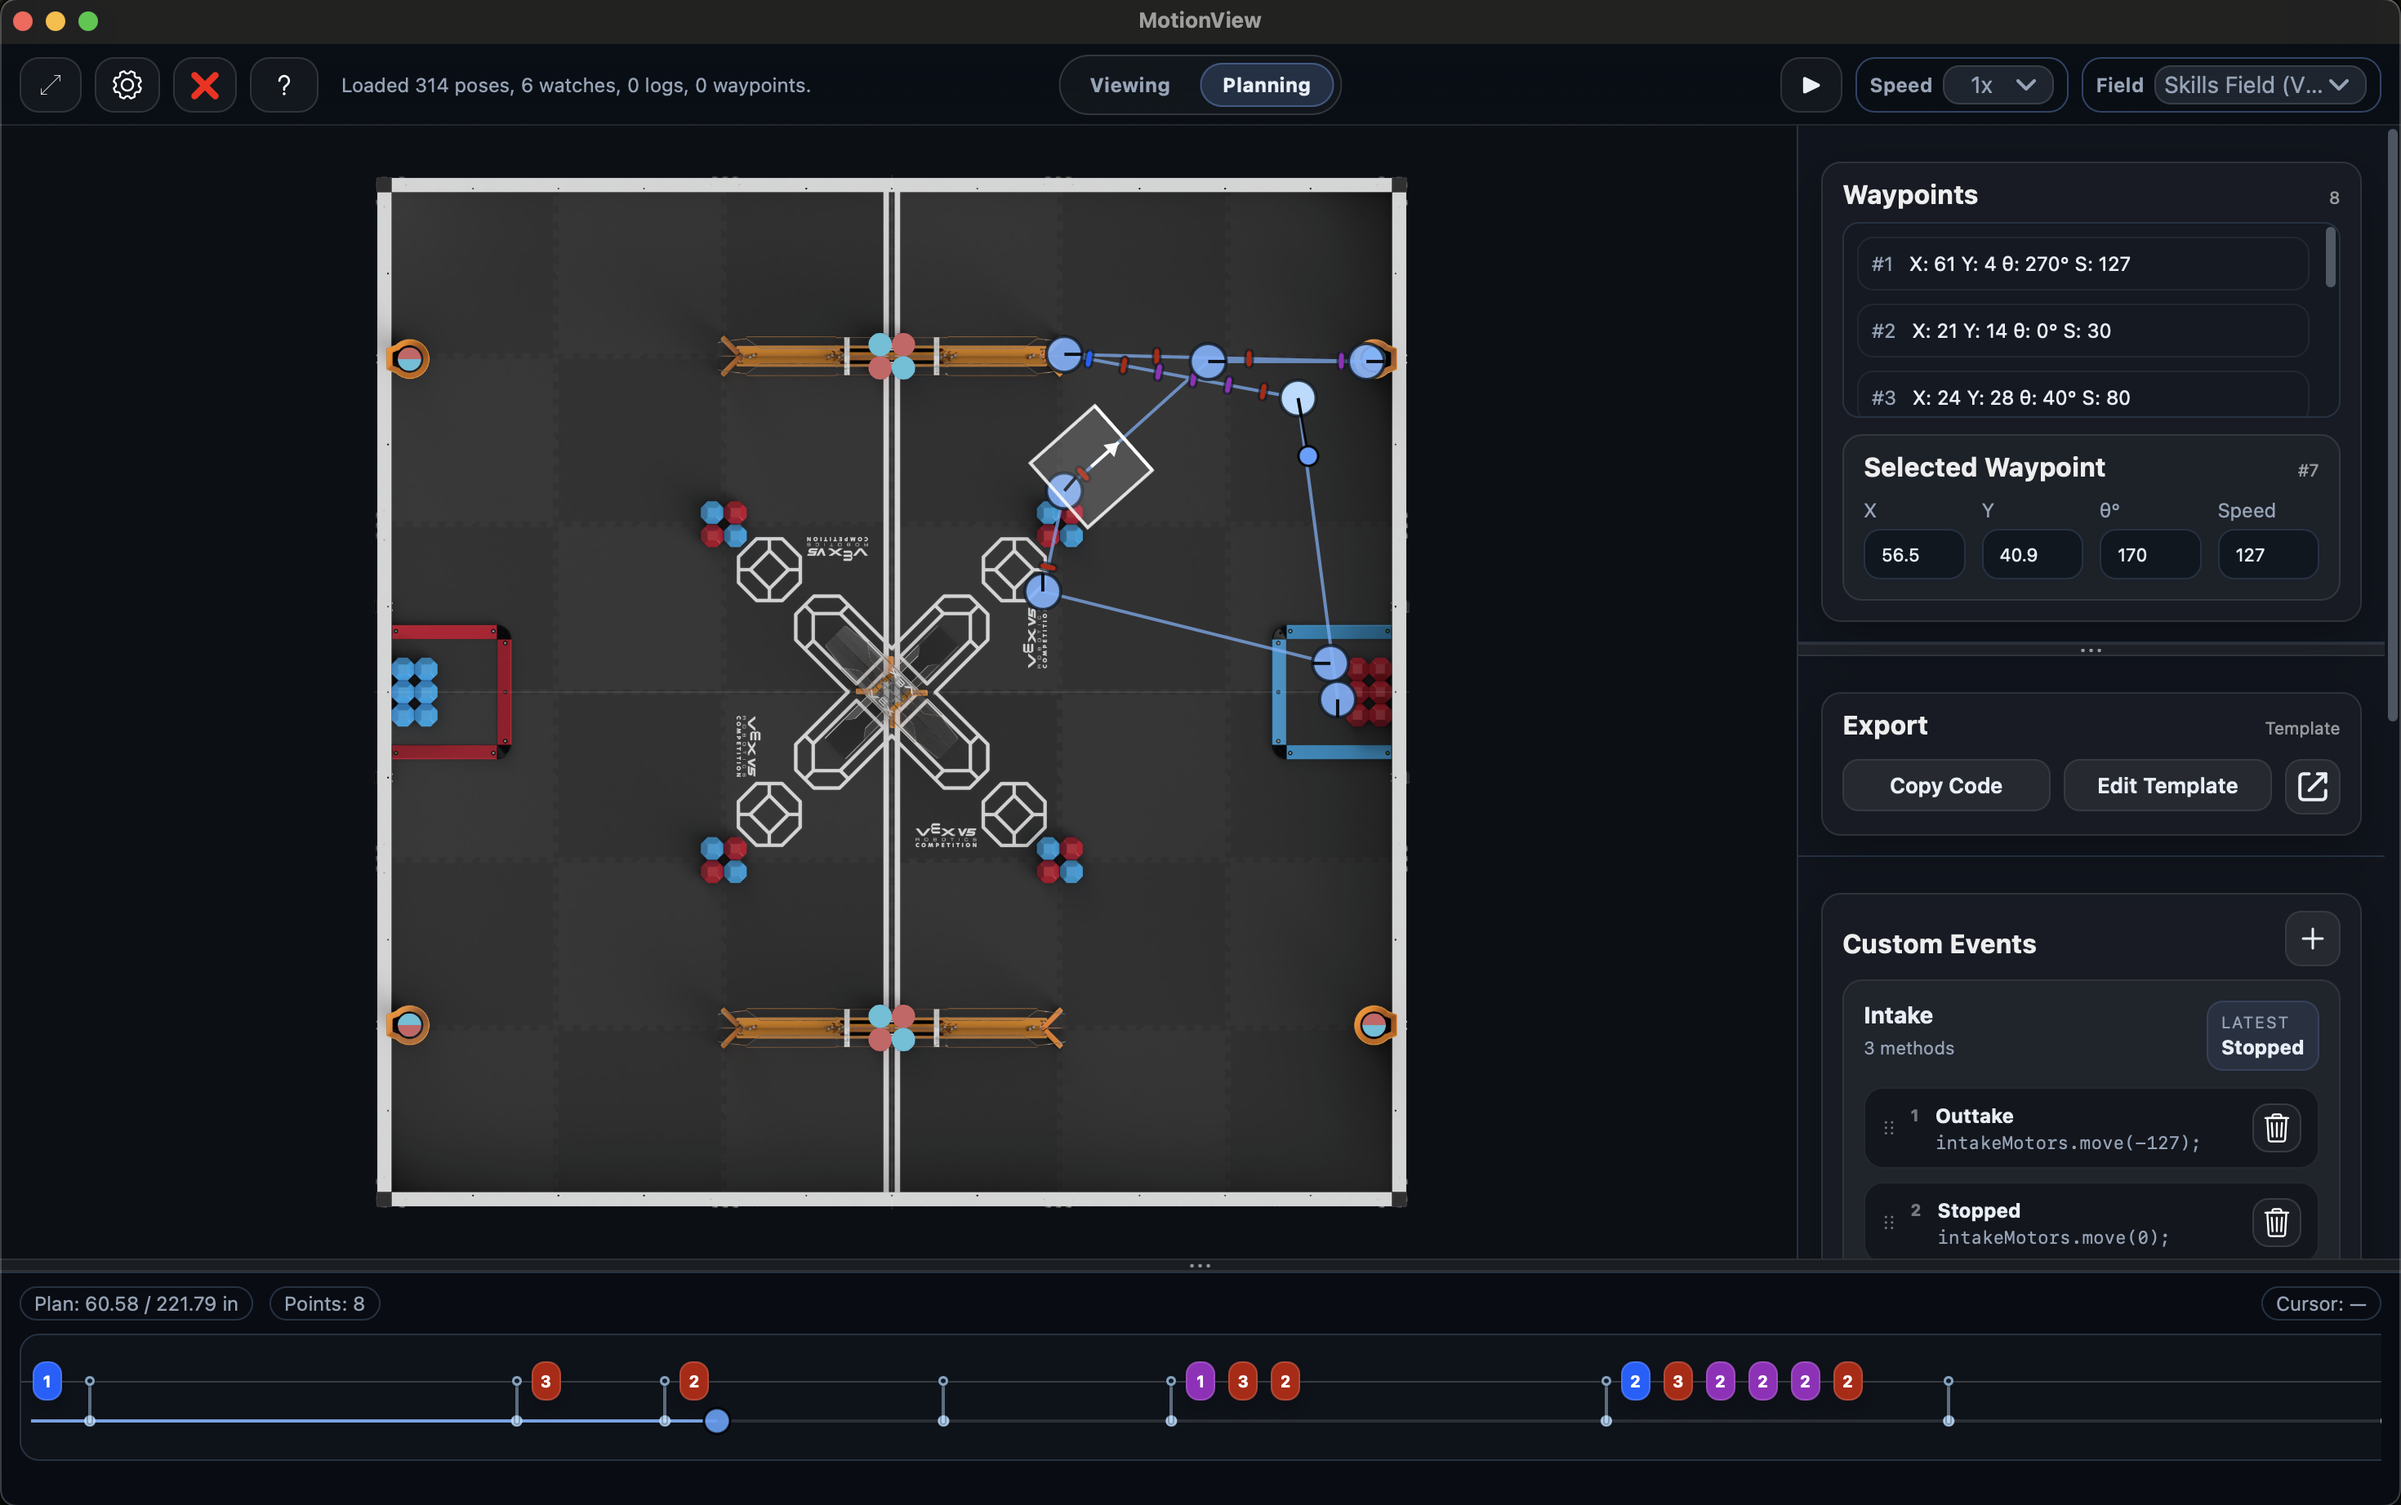
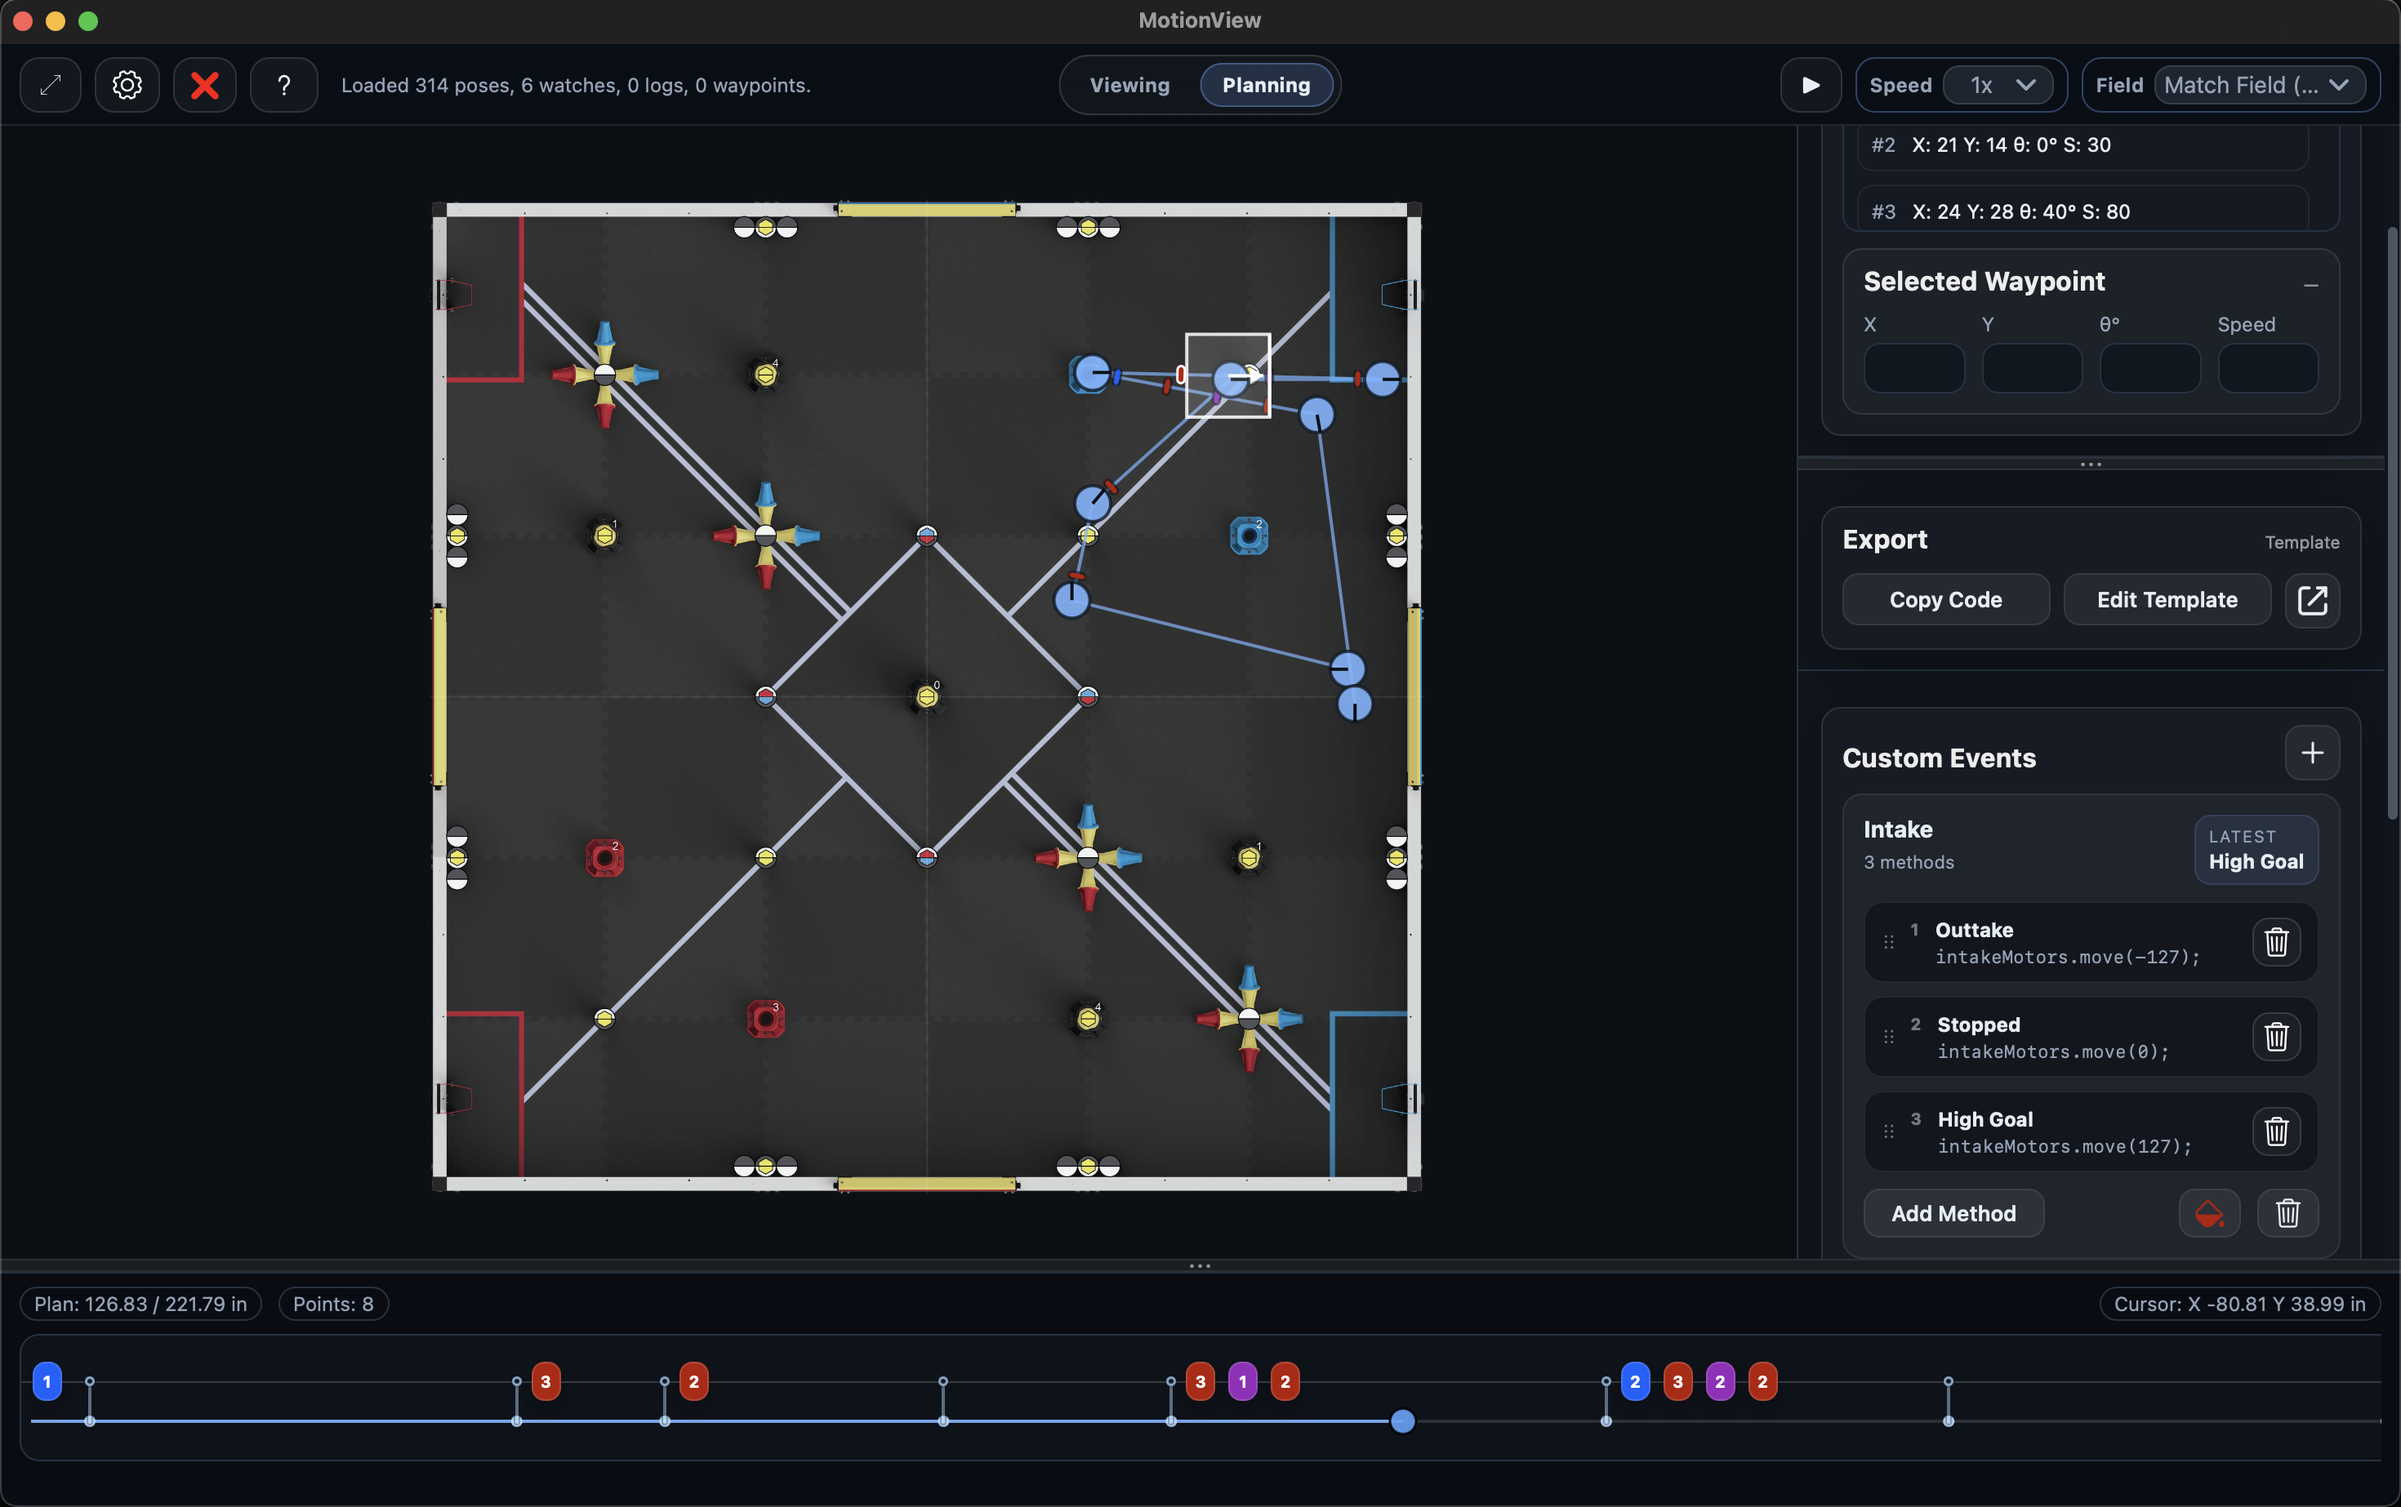
Add planning mode docs

diff --git a/docs/MotionView/PlanningMode.md b/docs/MotionView/PlanningMode.md
@@ -1,10 +1,48 @@
 # MotionView Planning Mode
 
-MotionView supports a planning mode for creating autonomous routines for the robot to follow. 
+Just like block coding, you can create autonomous routines for your robot to follow using MotionView's Planning mode.
 
-### Opening Planning Mode
+<p align="left">
+    <img src="./../../assets/MotionView/PlanningMode.png" alt="Icon" />
+</p>
+
+## Opening Planning Mode
 After installing MotionView, you can open Planning Mode using the keyboard shortcut `Cmd/Ctrl+2` or clicking `Planning` in the mode selector at the top of the screen.
 
-### Full Video Guide
+## Planning Mode Elements
+
+### Field
+The field is the main editing area for the planning mode. It contains the waypoints that make up the planned path. 
+
+- Right-click and drag to select multiple waypoints
+- Click on the field to place a waypoint, and use the `Theta Handle` to adjust its direction
+- Drag outside the field to pan
+- Use the Waypoints menu in the sidebar to manage waypoints
+
+### Custom Events
+Objects and Methods are the *blocks* of code that you can insert into the timeline.
+
+- To create an object, click on the `+` icon in the sidebar next to the `Custom Events` tab and name your object.
+- Click the `Add Method` text on your object to add a method to it. Methods let you create reusable blocks of code that you can drag and drop throughout your route.
+- To edit a method inline, first drag and drop it onto the timeline and then double-click it. Inline editing allows you to reuse the same method for different cases. A common use case is to create one general `Delay` Object and Method and then edit it inline for different delays.
+
+Tips:
+
+- Edit a method by double-clicking it
+- Change the color of an object to make it easier to see in the timeline
+
+
+### Timeline
+The timeline is the secondary area for editing the planned path. It contains the nodes for the planned path.
+
+- Drag a node from the sidebar to the timeline to add it to the path
+- Double-click on a node to edit it inline
+- Click on a node to select it
+- Drag a node back to the sidebar to delete it
+
+### Exporting
+Click the `Copy Code` button in the side bar to copy your entire autonomous routine to the clipboard.
+
+## Full Video Guide
 
 WIP: making video and attaching through github
